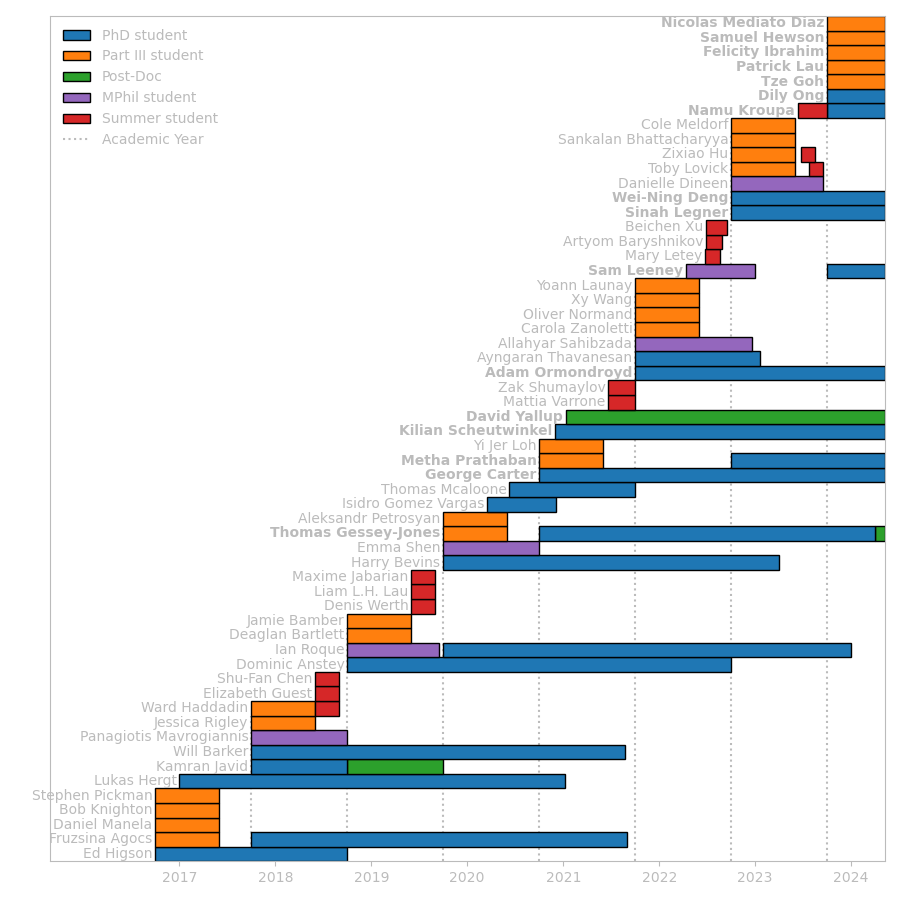
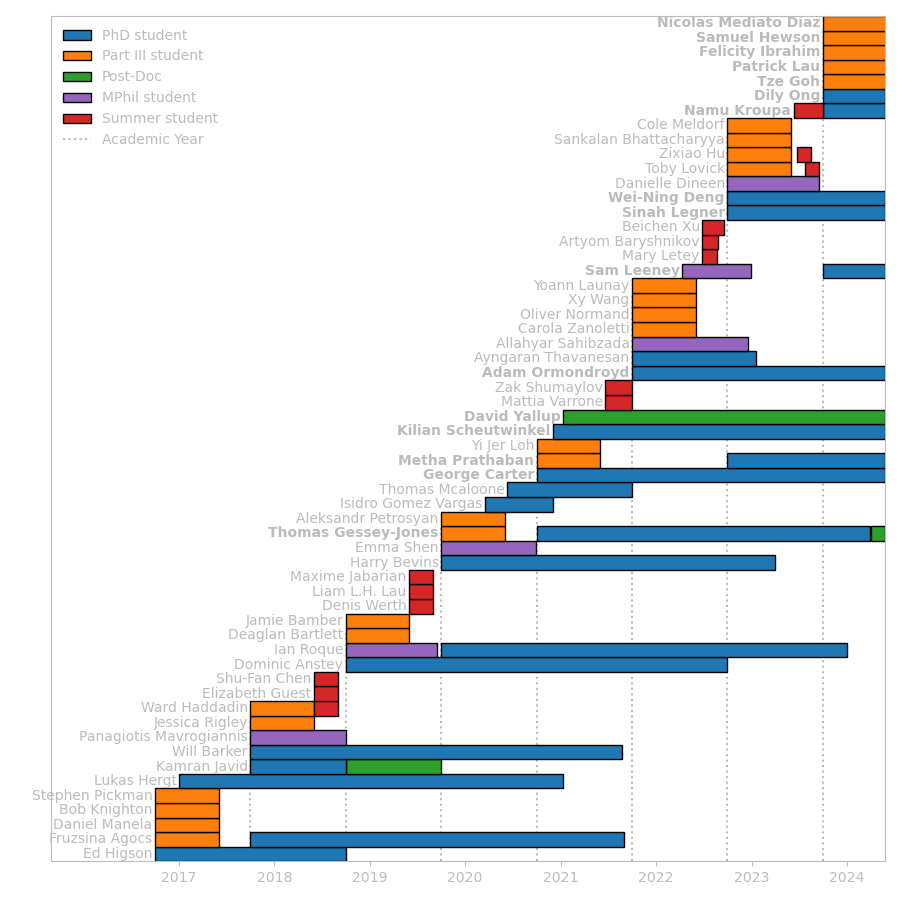
Updated students on timeline

diff --git a/assets/students/students.html b/assets/students/students.html
@@ -230,37 +230,6 @@
   </div>
 </div>
 <div class="wrapper" style="margin-top:30pt">
-  <h1>Part III students</h1>
-  <div class="grid">
-    <div class="grid-item">
-      <img src="/assets/students/images/tze_goh.jpg" />
-    </div>
-    <div class="grid-item">
-      <p>
-        <font size="+2">Tze Goh</font>
-      </p>
-      <p>
-        <ul>
-          <li>Part III student from Oct 2023<ul><li>co-supervised with <a href="https://www.lucy.cam.ac.uk/fellows/dr-suhail-dhawan">Suhail Dhawan</a></li></ul></li>
-        </ul>
-      </p>
-    </div>
-    <div class="grid-item">
-      <img src="/assets/students/images/felicity_ibrahim.jpg" />
-    </div>
-    <div class="grid-item">
-      <p>
-        <font size="+2">Felicity Ibrahim</font>
-      </p>
-      <p>
-        <ul>
-          <li>Part III student from Oct 2023</li>
-        </ul>
-      </p>
-    </div>
-  </div>
-</div>
-<div class="wrapper" style="margin-top:30pt">
   <h1>Past Post-Docs</h1>
   <div class="grid">
     <div class="grid-item">
@@ -634,6 +603,32 @@
 <div class="wrapper" style="margin-top:30pt">
   <h1>Past Part III students</h1>
   <div class="grid">
+    <div class="grid-item">
+      <img src="/assets/students/images/tze_goh.jpg" />
+    </div>
+    <div class="grid-item">
+      <p>
+        <font size="+2">Tze Goh</font>
+      </p>
+      <p>
+        <ul>
+          <li>Part III student from Oct 2023 to Jun 2024<ul><li>co-supervised with <a href="https://www.lucy.cam.ac.uk/fellows/dr-suhail-dhawan">Suhail Dhawan</a></li></ul></li>
+        </ul>
+      </p>
+    </div>
+    <div class="grid-item">
+      <img src="/assets/students/images/felicity_ibrahim.jpg" />
+    </div>
+    <div class="grid-item">
+      <p>
+        <font size="+2">Felicity Ibrahim</font>
+      </p>
+      <p>
+        <ul>
+          <li>Part III student from Oct 2023 to Jun 2024</li>
+        </ul>
+      </p>
+    </div>
     <div class="grid-item">
       <img src="/assets/students/images/zixiao_hu.jpg" />
     </div>
